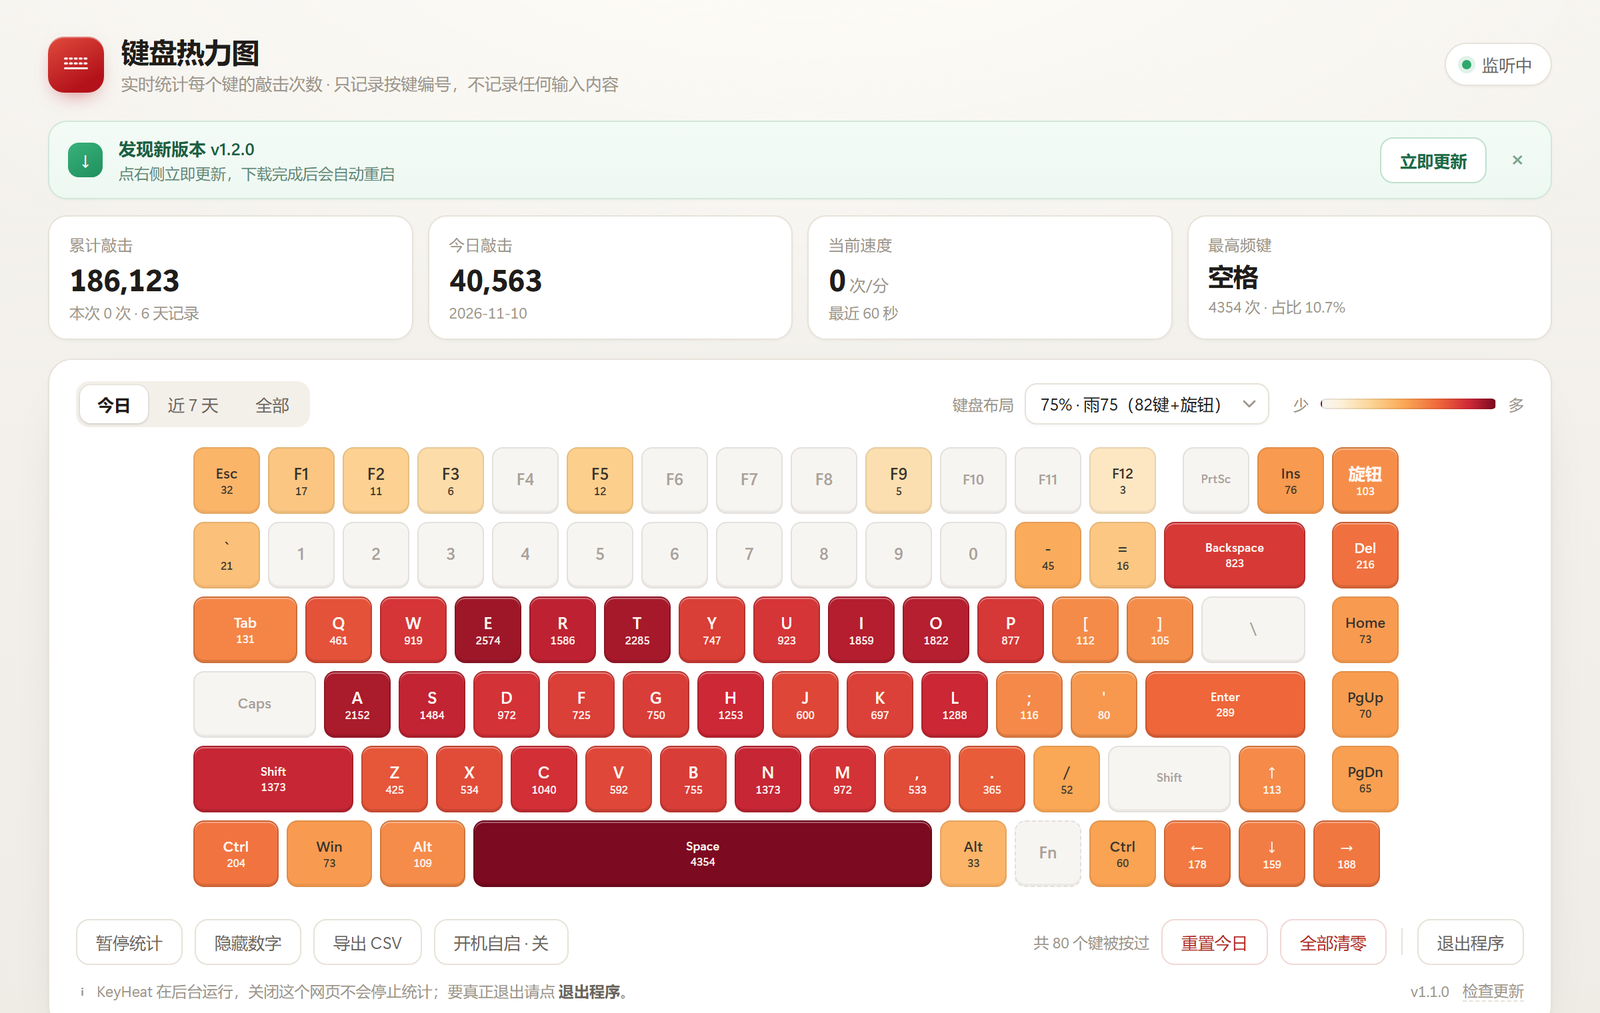
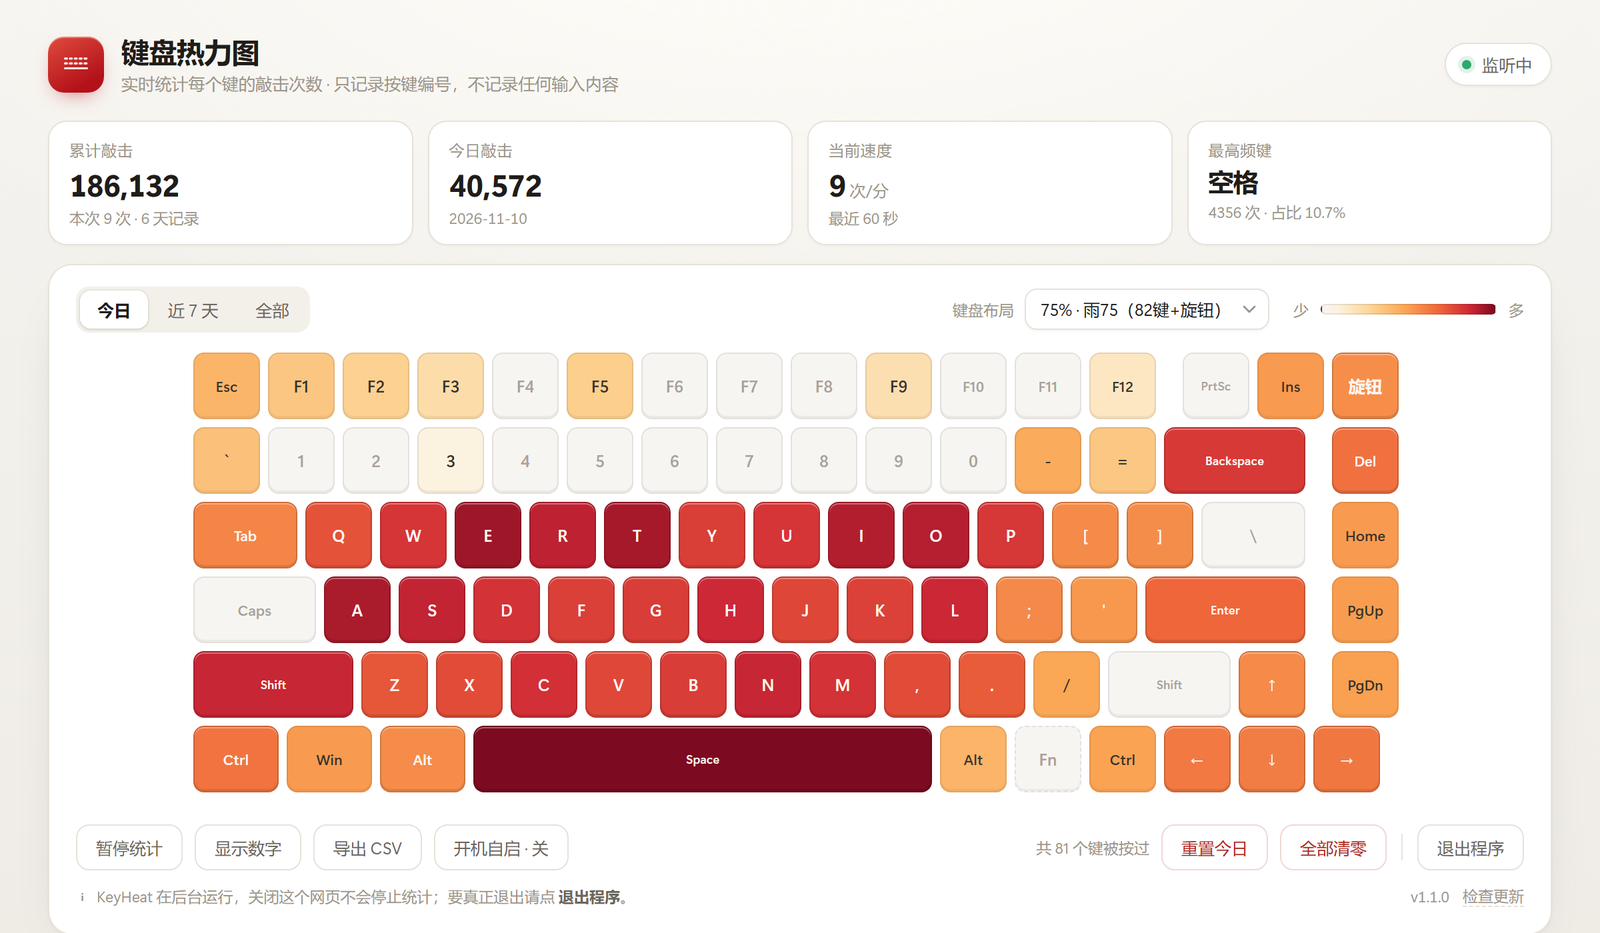
版本号改由 git tag 决定；数字默认隐藏；打包改用独立 venv
- common.py 优先读取打包时生成的 _version.py
- 重新打包exe.bat 从 git tag 生成版本号，在 ..\.buildenv 建 venv 打包
- 键帽数字默认隐藏，修正空数字占位导致的字母偏移
- 移除旧的启动脚本，清理无用代码

diff --git a/ui.html b/ui.html
@@ -124,9 +124,10 @@
     margin-top:3px;line-height:1;font-weight:500;opacity:0;transition:opacity .2s;
     font-variant-numeric:tabular-nums;
   }
+  /* 没有内容时不占位，否则空元素的 margin-top 会把键帽上的字母顶偏 */
+  .key .num:empty{display:none;}
   .key[data-n="1"] .num{opacity:.95;}
   .key.hot{box-shadow:inset 0 -1.5px 0 rgba(0,0,0,.10), inset 0 1px 0 rgba(255,255,255,.35);}
-  .key.blink{outline:2px solid rgba(207,34,51,.35);outline-offset:1px;}
 
   /* ---------- toolbar ---------- */
   .toolbar{display:flex;align-items:center;gap:9px;margin-top:16px;flex-wrap:wrap;}
@@ -141,10 +142,6 @@
   .btn.on:hover{background:#eaf8f1;}
   .btn.danger{color:#b3261e;border-color:#f0d8d5;}
   .btn.danger:hover{background:#fdf4f3;}
-  .btn .kbd{
-    font-size:10.5px;color:var(--ink-3);border:1px solid var(--line-soft);
-    border-radius:5px;padding:1px 5px;margin-left:7px;background:#fbfaf7;
-  }
   .spacer{flex:1 1 auto;}
   .sep{width:1px;height:20px;background:var(--line);margin:0 2px;}
   .hint{font-size:11.5px;color:var(--ink-3);}
@@ -287,7 +284,7 @@
 
     <div class="toolbar">
       <button class="btn" id="btnPause">暂停统计</button>
-      <button class="btn" id="btnNums">隐藏数字</button>
+      <button class="btn" id="btnNums">显示数字</button>
       <button class="btn" id="btnCsv">导出 CSV</button>
       <button class="btn" id="btnAuto" title="登录 Windows 后自动启动 KeyHeat">开机自启 · 关</button>
       <div class="spacer"></div>
@@ -538,7 +535,7 @@
   var boardWrap = document.getElementById("boardWrap");
   var tip = document.getElementById("tip");
   var layoutSel = document.getElementById("layoutSel");
-  var U = 44, GAP = 5, showNums = true;
+  var U = 44, GAP = 5, showNums = false;   // 默认只看颜色，不显示次数
   var lastCounts = {};
   var CUR = null;
 
@@ -716,7 +713,6 @@
   }
 
   function checkUpdate() {
-    var t = document.getElementById("verText");
     document.getElementById("lnkCheck").textContent = "检查中…";
     control("check_update").then(function () {
       setTimeout(function () { document.getElementById("lnkCheck").textContent = "检查更新"; }, 2500);
@@ -767,7 +763,6 @@
     if (d.update) {
       updateInfo = d.update;
       renderUpdate(d.update);
-      if (d.update.state === "uptodate" && !d.update.latest) { /* 保持安静 */ }
     }
 
     autoOn = !!d.autostart;

diff --git a/common.py b/common.py
@@ -17,7 +17,16 @@ if sys.stdout is None:
 if sys.stderr is None:
     sys.stderr = open(os.devnull, "w", encoding="utf-8")
 
+# 版本号。打包时由 重新打包exe.bat 读取 git tag 生成 _version.py（不入库）并编进 exe，
+# 这样版本号只有「git tag」一个来源，不会再出现 tag 打了 v1.2.0 而 exe 里还是 1.1.0 的错位。
+# 源码直接运行时若没有 _version.py，就用下面的兜底值。
 VERSION = "1.1.0"
+try:
+    from _version import VERSION as _built_version
+
+    VERSION = _built_version
+except ImportError:
+    pass
 
 # 自动更新检查的仓库（改成你自己的仓库即可；tag 形如 v1.2.0，资产放 KeyHeat.exe）
 UPDATE_REPO = "zhangjiawang975/KeyHeat"

diff --git a/updater.py b/updater.py
@@ -80,13 +80,11 @@ def wait_pid_exit(pid, timeout_ms=20000):
 class Updater:
     """状态机：idle → checking → (uptodate | available) → downloading → ready。"""
 
-    def __init__(self, current=VERSION, repo=UPDATE_REPO, on_quit=None,
-                 auto_check_delay=8, api_base=""):
+    def __init__(self, current=VERSION, repo=UPDATE_REPO, on_quit=None, api_base=""):
         self.current = current
         self.repo = repo or UPDATE_REPO
         self.api = api_base or API_LATEST
         self.on_quit = on_quit
-        self.auto_check_delay = auto_check_delay
         self.lock = threading.Lock()
         self.state = "idle"
         self.latest = None      # {version, notes, url, size, digest, page}

diff --git a/README.md b/README.md
@@ -33,13 +33,15 @@ Windows 上的键盘使用热力图：全局统计每个按键被按下的次数
 
 ### 发布新版本（以后要做的）
 
-1. 改 `common.py` 里的 `VERSION = "1.2.0"`
-2. 双击 `重新打包exe.bat`
-3. 在 GitHub 打 tag `v1.2.0`，把 `KeyHeat.exe` 作为 **Release 资产**上传
+1. 提交代码，然后打 tag：`git tag v1.2.0`（**版本号只有这一个来源**）
+2. 双击 `重新打包exe.bat`：它会读 tag 生成 `_version.py` 再打包，exe 里的版本号就是 `1.2.0`
+3. `git push origin main --tags`，在 GitHub 用该 tag 建 Release，把 `KeyHeat.exe` 作为 **Release 资产**上传
    - 资产名必须是 `KeyHeat.exe`，或匹配 `KeyHeat*.exe`
    - tag 必须是 `vX.Y.Z`，程序按语义版本比较（1.10.0 > 1.9.9）
+   - 打包时如果 tag 不在当前提交上、或工作区有未提交改动，脚本会警告（exe 会报 tag 的版本但装着更新的代码）
 4. 老用户下次启动就会看到更新提示
 
+> 没有 tag 时（比如刚 clone 下来），脚本会退回用 `common.py` 里的 `VERSION` 兜底值，并提示你先打 tag。
 > 仓库地址写在 `common.py` 的 `UPDATE_REPO`，当前是 `zhangjiawang975/KeyHeat`。
 > 仓库名不同就改这一行（或用 `--repo` 临时指定）。
 
@@ -48,14 +50,14 @@ Windows 上的键盘使用热力图：全局统计每个按键被按下的次数
 | 文件 | 职责 | 行数 |
 | --- | --- | --- |
 | `keyheat.py` | 入口：参数解析、装配各模块、主循环 | 194 |
-| `common.py` | 路径、常量、`VERSION`、日志、Win32 DLL 句柄 | 75 |
+| `common.py` | 路径、常量、`VERSION`、日志、Win32 DLL 句柄 | 84 |
 | `store.py` | 统计数据：内存计数 + 按天明细 + JSON 持久化 | 156 |
 | `winhook.py` | 全局键盘钩子（`WH_KEYBOARD_LL`）+ 去重消费线程 | 117 |
 | `trayicon.py` | 托盘图标与右键菜单（纯 ctypes，无第三方库） | 273 |
 | `autostart.py` | 开机自启（写 HKCU 的 Run 键） | 56 |
 | `server.py` | 本地 HTTP 服务、路由、单实例探测 | 202 |
-| `updater.py` | 检查 / 下载 / 校验 / 替换 / 重启 | 401 |
-| `ui.html` | 单文件界面（键盘图、热力配色、更新提示条） | 967 |
+| `updater.py` | 检查 / 下载 / 校验 / 替换 / 重启 | 399 |
+| `ui.html` | 单文件界面（键盘图、热力配色、更新提示条） | 962 |
 
 ## 界面功能
 
@@ -64,7 +66,7 @@ Windows 上的键盘使用热力图：全局统计每个按键被按下的次数
 | 键盘布局 | 右上角切换：75%（雨75）/ 65% / 60% / 87 TKL / 104 全尺寸，选择会记住 |
 | 今日 / 近 7 天 / 全部 | 切换统计范围 |
 | 暂停统计 | 临时不计（比如输密码时） |
-| 隐藏数字 | 键帽上不显示次数，只看颜色 |
+| 显示数字 | 默认键帽上不显示次数、只看颜色；点一下可在键帽上显示次数 |
 | 导出 CSV | 导出当前范围的「按键 / 键码 / 次数 / 占比」 |
 | 开机自启 | 登录 Windows 后自动启动（写 HKCU 的 Run 键，关掉即删除） |
 | 检查更新 | 页脚版本号右边 |
@@ -125,6 +127,12 @@ python keyheat.py --port 9000     :: 换端口
 python keyheat.py --no-open       :: 不自动开浏览器
 ```
 
-改完代码要出新 exe：双击 `重新打包exe.bat`（会自动装 PyInstaller 后打包）。
+改完代码要出新 exe：双击 `重新打包exe.bat`。
 
-只依赖 Python 3.8+ 标准库，源码方式无需安装任何第三方包。
+它做三件事：读 git tag 生成 `_version.py`（版本号唯一来源）→ 在 `..\.buildenv` 建 venv 装 PyInstaller
+（不污染系统 Python）→ 打包并把产物放到 `KeyHeat.exe`。约 20~50 秒。
+
+> 注意它**不是启动器**，只负责构建。平时运行直接双击 `KeyHeat.exe`。
+> 没有 tag 时会退回 `common.py` 里的 `VERSION` 兜底值并提示你先 `git tag v1.0.0`。
+
+只依赖 Python 3.8+ 标准库，源码方式无需安装任何第三方包（打包才需要 PyInstaller）。
